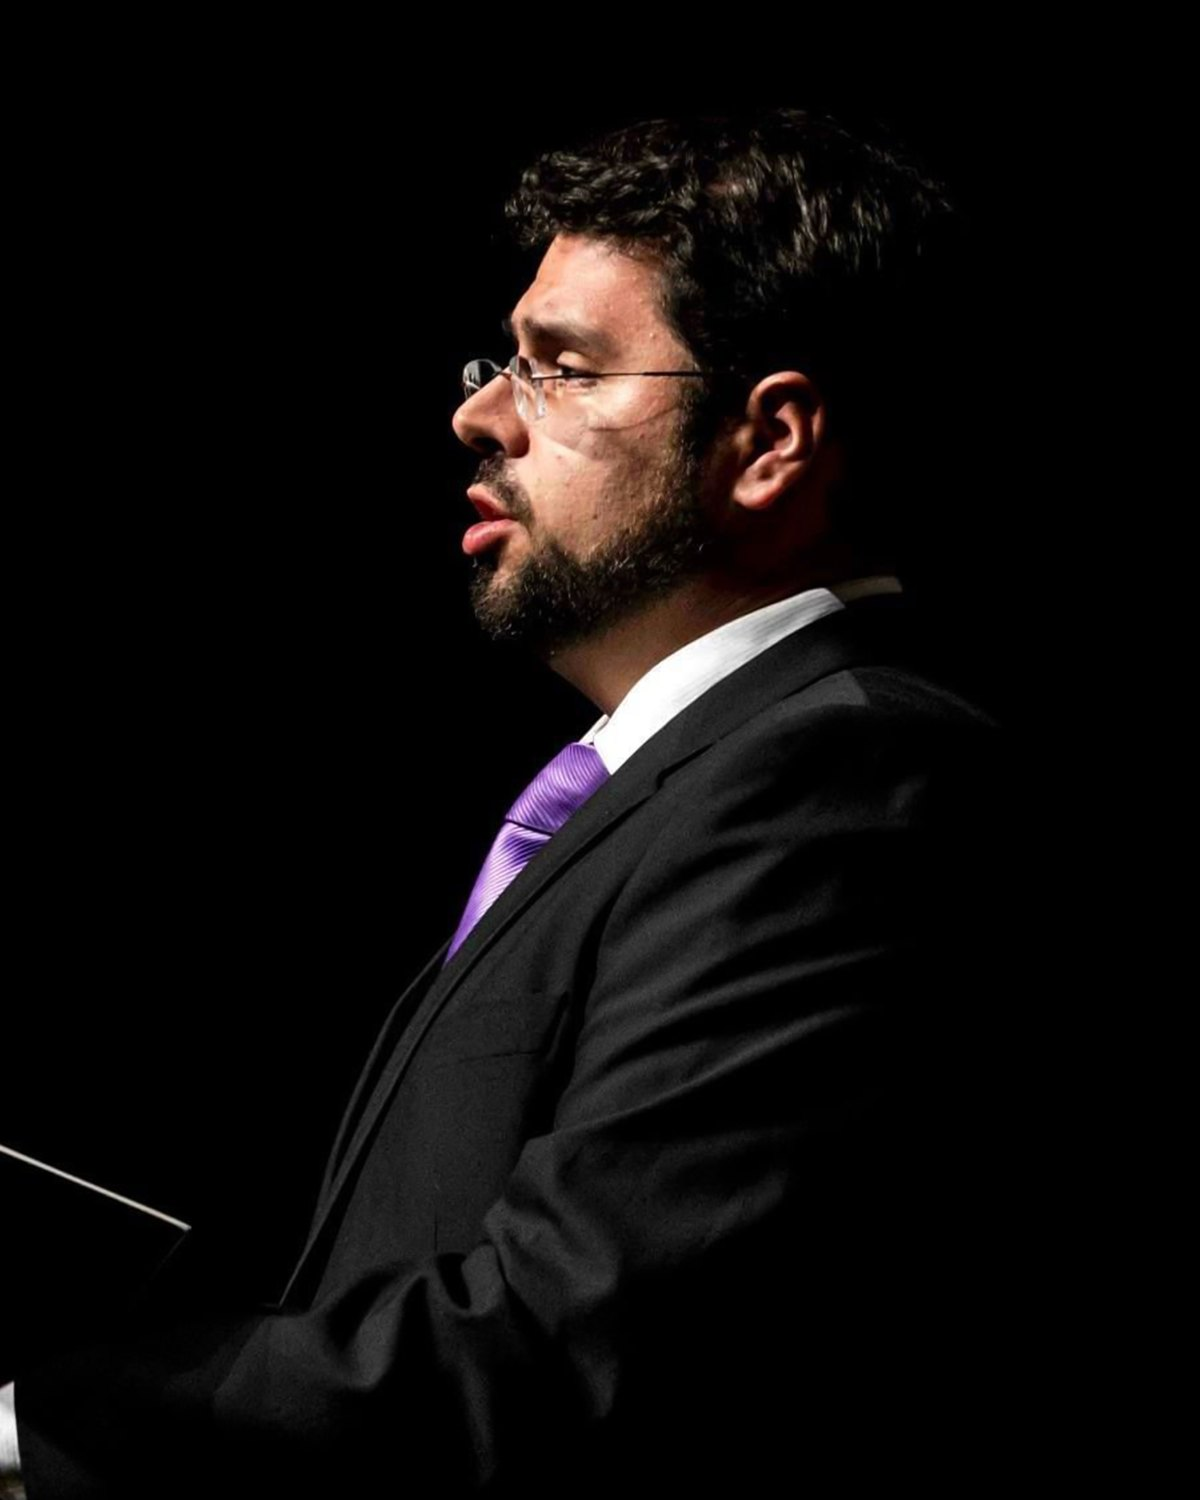
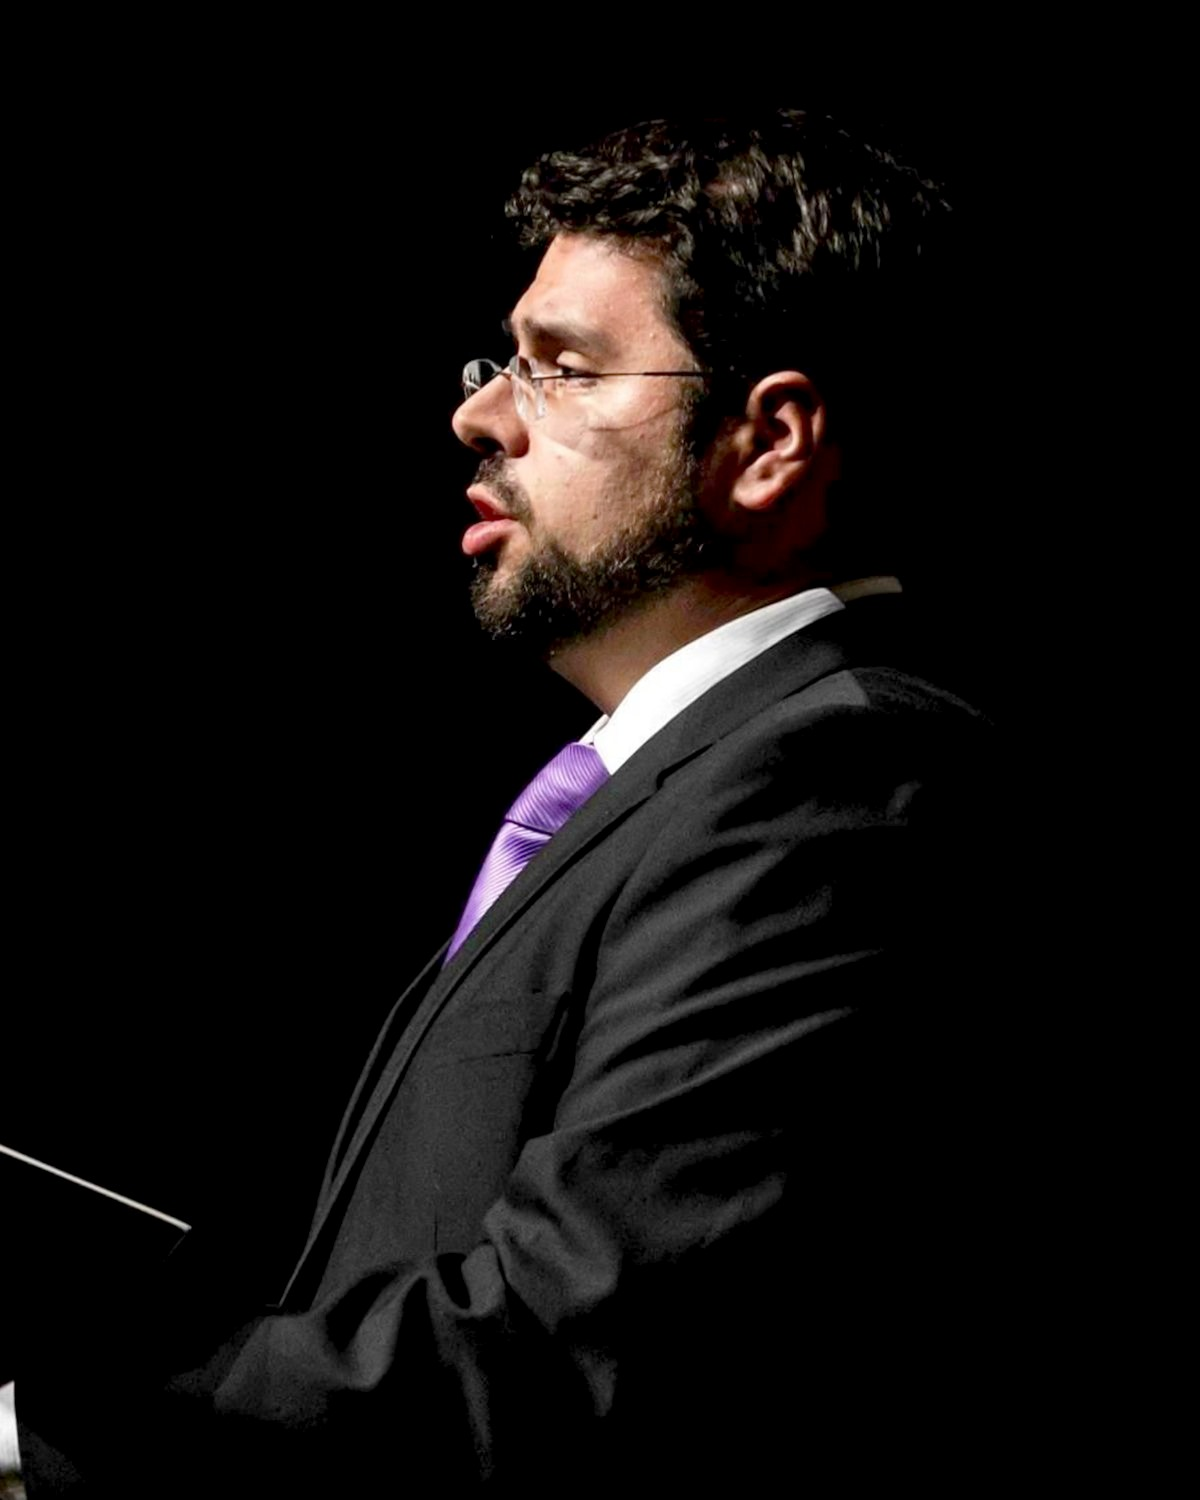
Sin partir palabras; textos (todos cantan y tocan, repertorio no sólo sacro, sin «Ensaladas» en portada, programadores); fotos de Víctor y Jorge más claras; pie de página nuevo

diff --git a/src/styles/global.css b/src/styles/global.css
@@ -109,7 +109,7 @@ h1, h2, h3, h4 { margin: 0 0 0.5em; line-height: 1.15; font-weight: 500; text-wr
   font-style: italic;
   color: var(--ink-soft);
 }
-.prose p { hyphens: auto; }
+.prose p { hyphens: manual; }
 .prose > * + h2, .prose > * + h3 { margin-top: 1.6em; }
 .prose > .kicker + h2, .prose > .kicker + h3 { margin-top: 0; }
 .prose h3 { font-family: var(--display); color: var(--maroon); font-size: 1.35rem; font-weight: 500; }
